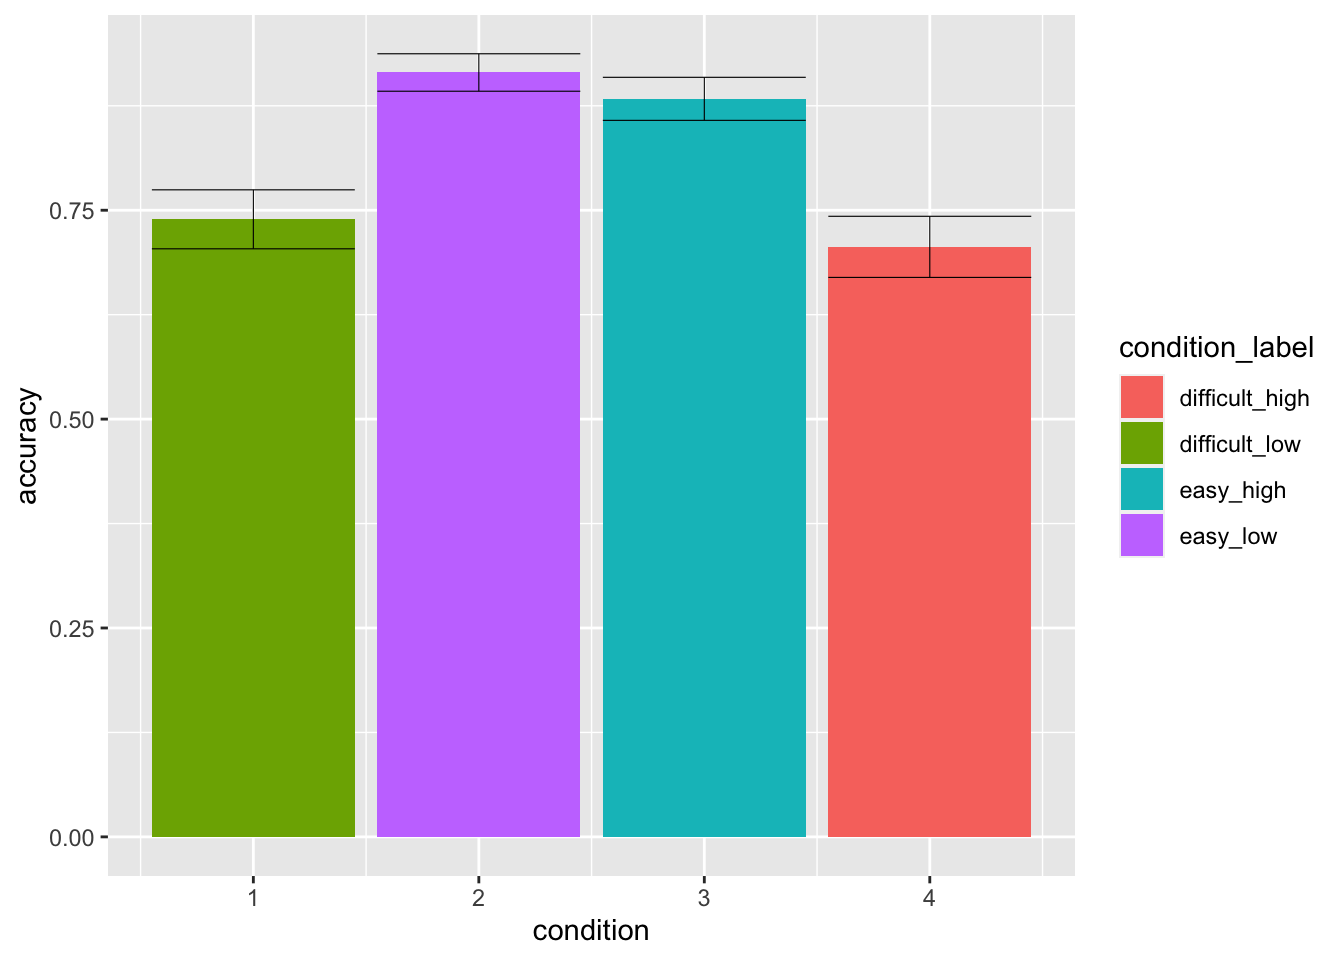
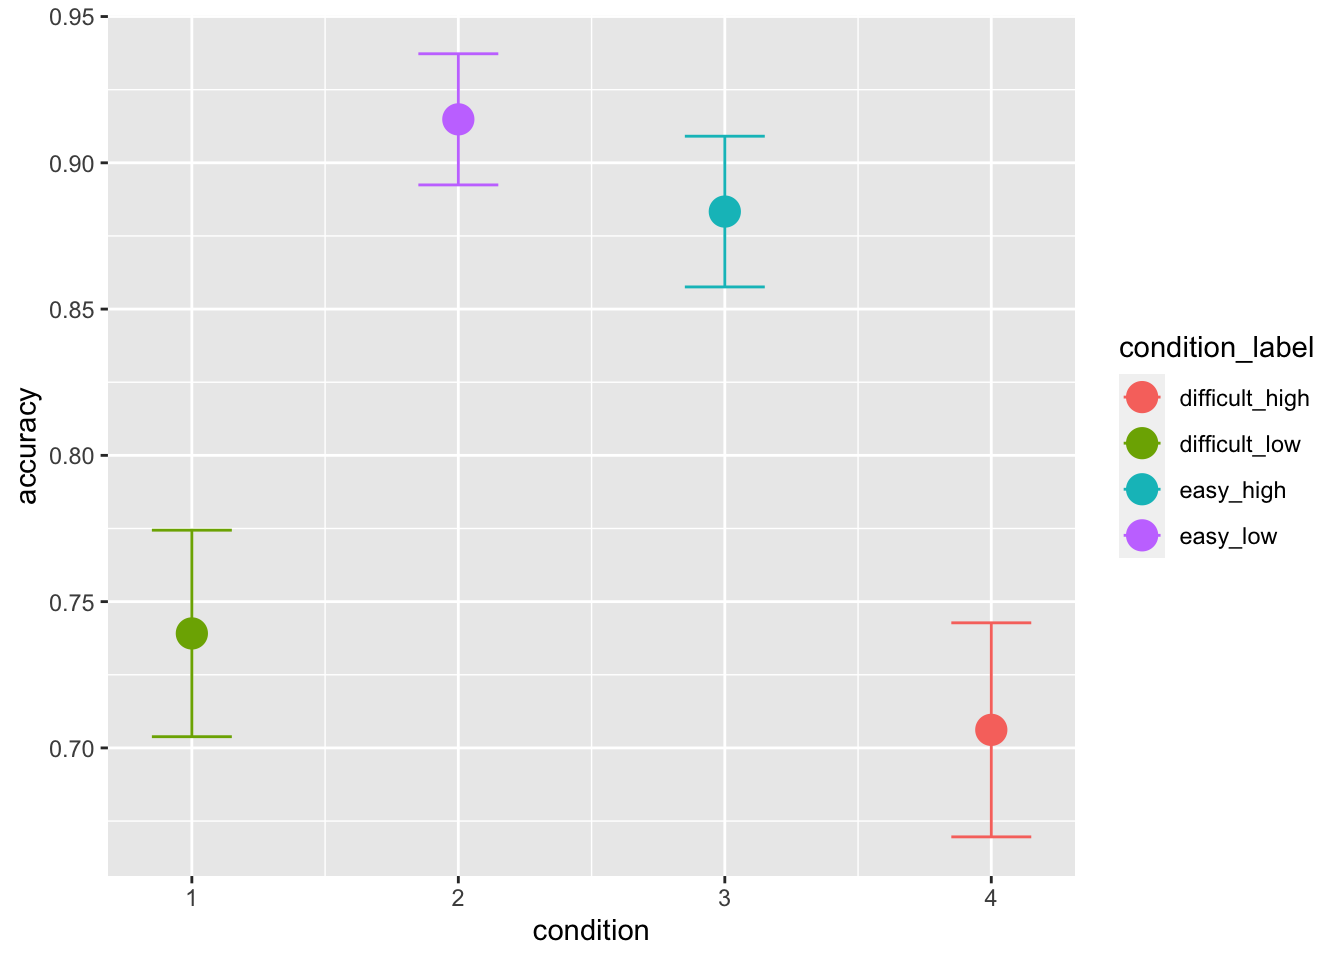
fixed plots

diff --git a/docs/Fontanesi2019.html b/docs/Fontanesi2019.html
@@ -301,13 +301,13 @@ data[(data$inc_option == 1)&amp;(data$cor_option == 3),&quot;condition&quot;] &l
 data[(data$inc_option == 2)&amp;(data$cor_option == 4),&quot;condition&quot;] &lt;- 3
 data[(data$inc_option == 3)&amp;(data$cor_option == 4),&quot;condition&quot;] &lt;- 4</code></pre>
 <p>The first model we can try to fit, is a diffusion model (DM) in which we vary drift-rate and threshold based on the condition (or choice pair). The DM assumptions are actually violated in this task: when we fit the DM without learning component, we assume that the trials are somewhat independent. While this is rarely the case even in non-learning tasks (e.g., because of post-error effects, practice effects) this is clearly not the case in learning tasks. However, this can give us a good idea of context-dependent effects on the RT distributions such as the ones we observed in the following plots:</p>
-<pre class="r"><code>ggplot(data = data, aes(x = condition, y = accuracy, fill=condition_label))+
-  stat_summary(fun = &quot;mean&quot;, geom=&quot;bar&quot;, position = &#39;dodge&#39;) +
-  stat_summary(fun.data = mean_cl_normal, geom = &quot;errorbar&quot;,  size=.2, width=.9, position = &#39;dodge&#39;)</code></pre>
+<pre class="r"><code>ggplot(data = data, aes(x = condition, y = accuracy, color=condition_label))+
+  stat_summary(fun = &quot;mean&quot;, geom=&quot;point&quot;,  size=5) +
+  stat_summary(fun.data = mean_cl_normal, geom = &quot;errorbar&quot;,  size=.5, width=.3)</code></pre>
 <p><img src="Fontanesi2019_files/figure-html/unnamed-chunk-3-1.png" width="672" /></p>
-<pre class="r"><code>ggplot(data = data, aes(x = condition, y = rt, fill=condition_label))+
-  stat_summary(fun = &quot;mean&quot;, geom=&quot;bar&quot;, position = &#39;dodge&#39;) +
-  stat_summary(fun.data = mean_cl_normal, geom = &quot;errorbar&quot;,  size=.2, width=.9, position = &#39;dodge&#39;)</code></pre>
+<pre class="r"><code>ggplot(data = data, aes(x = condition, y = rt, color=condition_label))+
+  stat_summary(fun = &quot;mean&quot;, geom=&quot;point&quot;,  size=5) +
+  stat_summary(fun.data = mean_cl_normal, geom = &quot;errorbar&quot;,  size=.5, width=.3)</code></pre>
 <p><img src="Fontanesi2019_files/figure-html/unnamed-chunk-3-2.png" width="672" /></p>
 <p>Now we can prepare the data for <code>stan</code>. Note that this is a bit different for hierarchical models, and also when we want to fit separate parameters per condition:</p>
 <pre class="r"><code>unique(data$participant)</code></pre>
